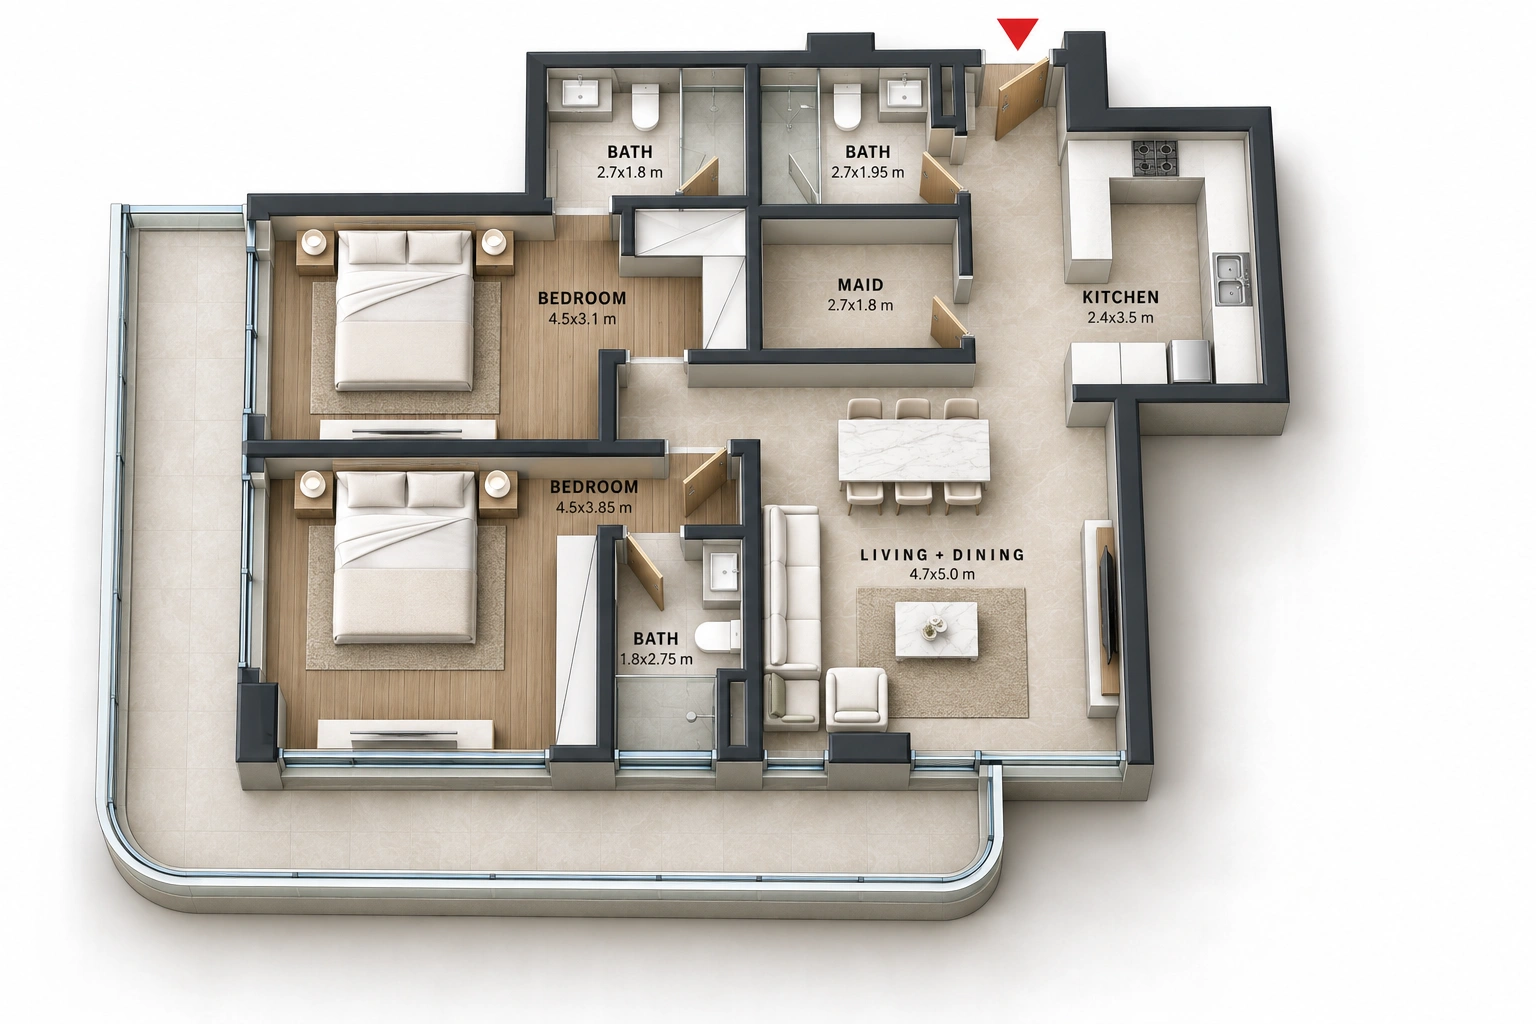
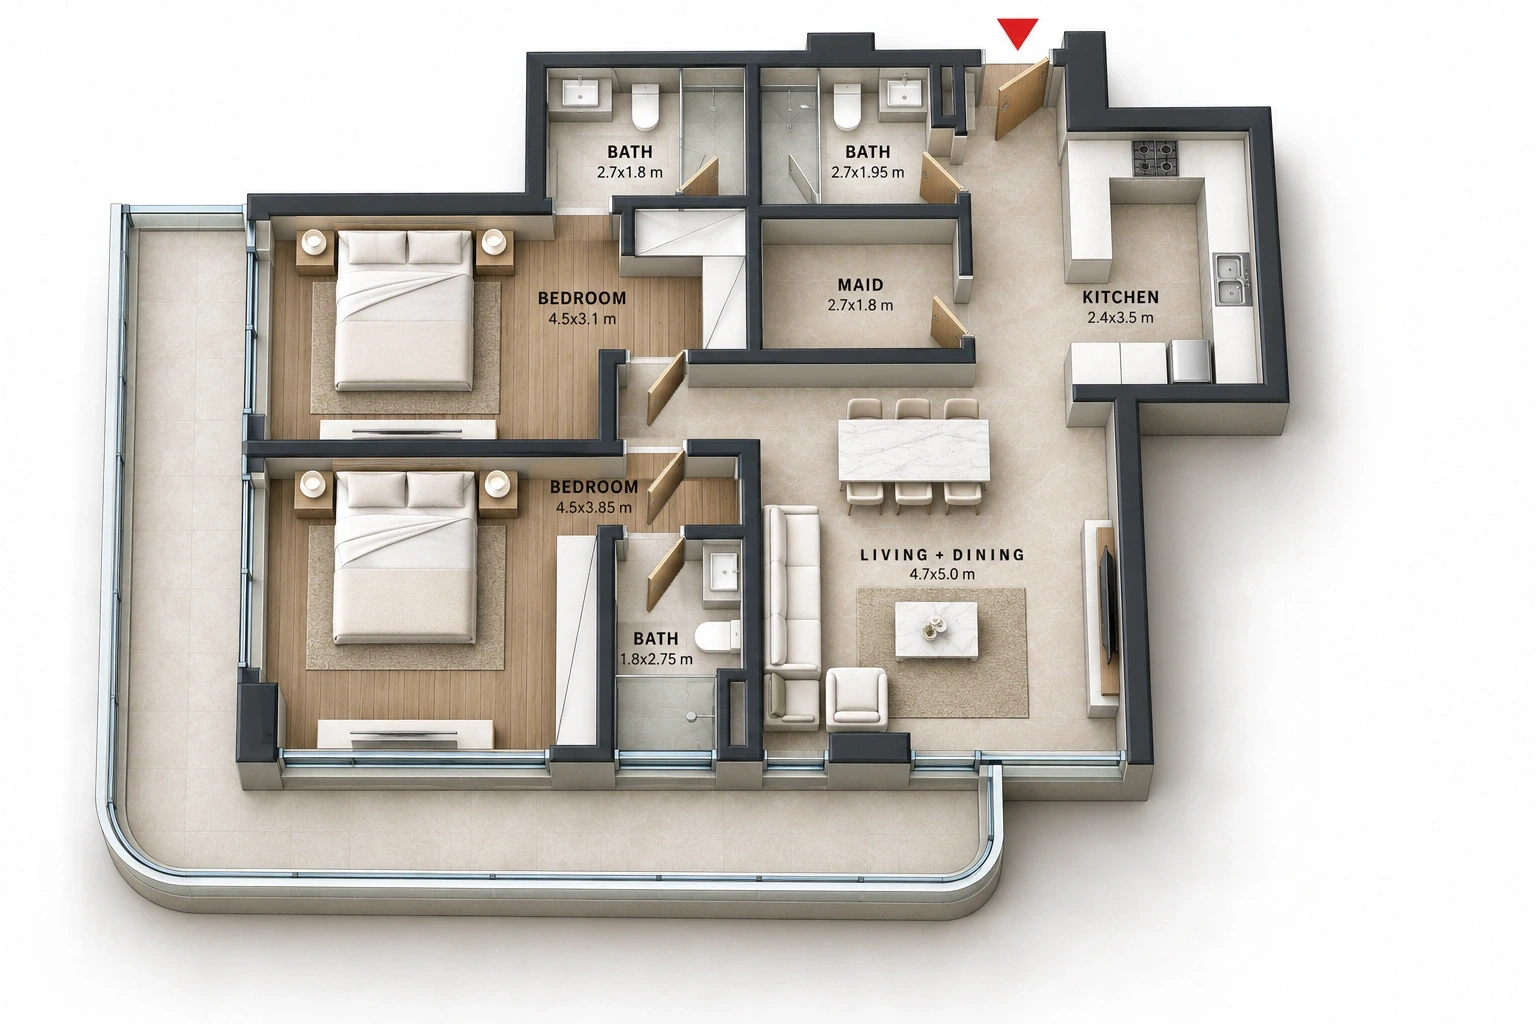
feat(floor-explorer): the three-door run lines up in three more 2 BHK renders
The inner-left 2 BHK (Type A) had its three corridor doors — both bedrooms and
the bath — staggered, each at a different distance from the corridor wall. The
inner-right twin (Type A-prime) was corrected in an earlier round; these three
now match it mirrored: one straight run, same leaf length, same open angle,
same hinge side.

Verified rather than assumed. A pixel diff against the previous files puts
every changed pixel inside the corridor the doors open off and nowhere else,
and at 3x the joins are clean — no pale patch where a doorway was closed up,
no seam or halo at a hinge, floor and skirting continuous through the new
positions. All three are still 1536x1024 lossy WebP. The measured ink boxes
are recomputed from the new files.

`unit-l06-2bhk-maidroom-a-3d.webp` is the one left of the four, and it is the
one that matters least: the residence it draws is unit 605, which the
availability list marks SOLD, and a sold residence no longer opens. With these
three in, no visitor can reach a staggered 2 BHK render on any floor of the
building.

Changed region(s): [[0.375, 0.3438, 0.5, 0.625]]

diff --git a/src/components/floor-explorer/unit3dViews.ts b/src/components/floor-explorer/unit3dViews.ts
@@ -191,7 +191,7 @@ const VIEWS: Readonly<Record<string, Unit3dView>> = {
   },
   'l01-05-07-11-2bhk-maidroom-a': {
     src: assetUrl('units-3d/unit-l01-05-07-11-2bhk-maidroom-a-3d.webp'),
-    ink: { left: 0.0475, top: 0.0176, width: 0.8307, height: 0.9707 },
+    ink: { left: 0.0475, top: 0.0166, width: 0.8314, height: 0.9717 },
     align: { left: 0.0030, top: 0.0125, width: 0.9999, height: 1.0250 },
     fill: 0.98,
   },
@@ -227,7 +227,7 @@ const VIEWS: Readonly<Record<string, Unit3dView>> = {
   },
   'l02-04-08-10-2bhk-maidroom-a': {
     src: assetUrl('units-3d/unit-l02-04-08-10-2bhk-maidroom-a-3d.webp'),
-    ink: { left: 0.0801, top: 0.0264, width: 0.7982, height: 0.9395 },
+    ink: { left: 0.0801, top: 0.0254, width: 0.8001, height: 0.9414 },
     align: { left: 0.0013, top: 0.0027, width: 0.9964, height: 1.0198 },
     fill: 0.98,
   },
@@ -263,7 +263,7 @@ const VIEWS: Readonly<Record<string, Unit3dView>> = {
   },
   'l03-09-2bhk-maidroom-a': {
     src: assetUrl('units-3d/unit-l03-09-2bhk-maidroom-a-3d.webp'),
-    ink: { left: 0.0755, top: 0.0195, width: 0.7930, height: 0.9336 },
+    ink: { left: 0.0762, top: 0.0195, width: 0.7923, height: 0.9336 },
     align: { left: -0.0030, top: 0.0209, width: 1.0061, height: 1.0494 },
     fill: 0.98,
   },
